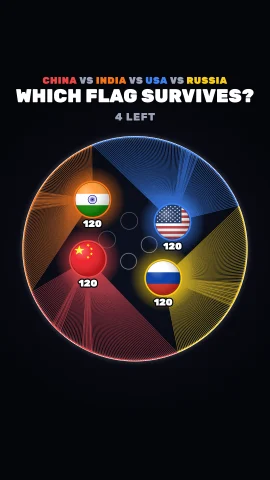
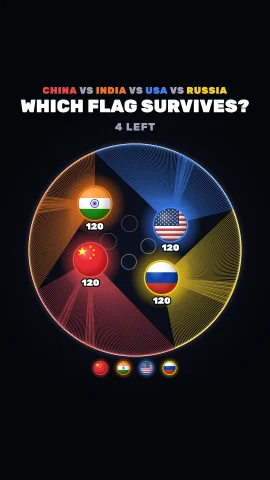
feat: row of flags under the arena clash ring

diff --git a/src/render/battle.ts b/src/render/battle.ts
@@ -22,6 +22,8 @@ import { END_HAND, FOLLOW_IN, FOLLOW_PAD, FOLLOW_RACE_TAP, FOLLOW_RED, FOLLOW_SH
 //               the flag's colour that add up to a lit wedge where they are many; the balls, each
 //               its flag in a ring of its colour, glowing, the strings it holds counted under it,
 //               red and beating once it is down to its last bundle
+//   the row     under the ring, every flag in the battle as its ball is drawn; one that goes out
+//               turns grey and a red cross pops over it
 //
 // A cut string lingers a moment as a ghost, with sparks where the rival is, and a sweep through a
 // bundle or more shows how many it took over the cutter ("-34"); a bounce ripples on the ring where
@@ -40,32 +42,31 @@ const PANEL = '#12162a';
 /** The words that are not the headline: how many are left, the result under the winner. */
 const MUTED = '#9aa3b5';
 /**
- * px the whole picture sits below the simulation's arena (layout.ts ARENA): the ring is drawn
- * centred at y 1035, not 915. Moved in the drawing alone, since a battle's every px is worked out
- * from where the arena is, and a battle recorded before must open again in the studio exactly as
- * it played. Measured on the three apps on a 6.1" phone, where the video fills the screen's
- * height: TikTok's search bar reaches y 247 and Instagram's profile grid shows only y 240–1680
- * (3:4), so the names at 244 were cut and the black under the ring was a third of the frame. At
- * 80 a reel on an iPhone still had the region just under the top buttons and some 250 px of black
- * under the ring; 120 is as low as TikTok's caption (from y 1620) leaves the watermark room.
- */
-const DROP = 120;
-/**
- * How big the arena is drawn, of the simulation's, round its centre: 892 px across, not 970. At
+ * How big the arena is drawn, of the simulation's, round its centre: 844 px across, not 970. At
  * full size the ring came within 55 px of the frame's sides, and Instagram on an iPhone, filling
  * the screen's height, crops about 38 px a side (measured on a screenshot): the ring touched the
- * screen's edges and its right was cut, under the side buttons. The balls, strings and counts
- * are smaller by as much. The drawing alone, as DROP is.
+ * screen's edges and its right was cut, under the side buttons. At 87 % the row of flags and the
+ * line for the follow button fit under it, over TikTok's caption. The balls, strings and counts
+ * are smaller by as much.
  */
-const SCALE = 0.92;
-/** Where the arena's centre is drawn on the frame, and its ring's lowest point (y 1481). */
-const CENTRE_Y = ARENA.y + DROP;
+const SCALE = 0.87;
+/**
+ * Where the arena's centre is drawn on the frame: the ring from y 578 to 1422. The simulation's
+ * arena (layout.ts ARENA, centre y 915) stays where every battle was worked out, and is moved and
+ * scaled in the drawing alone, so a battle recorded before opens again in the studio as it played.
+ */
+const CENTRE_Y = 1000;
 const RING_BOTTOM = CENTRE_Y + ARENA.r * SCALE;
-/** The title block, by the middle of each line: under TikTok's search bar (to y 247) and the profile grid's top (240), over the ring (from 589). */
-const REGION_Y = 196 + DROP;
-const KICKER_Y = 244 + DROP;
-const HEADLINE_Y = 308 + DROP;
-const STATUS_Y = 388 + DROP;
+/**
+ * The title, by the middle of each line. Measured on the three apps on a 6.1" phone, where the
+ * video fills the screen's height: TikTok's search bar reaches y 247 and Instagram's profile grid
+ * shows only y 240–1680 of a reel (3:4), so the region sits just under both, and the status line
+ * (with a flag's OUT, to y 538) over the ring's glow.
+ */
+const REGION_Y = 316;
+const KICKER_Y = 364;
+const HEADLINE_Y = 428;
+const STATUS_Y = 508;
 /**
  * The widest a line of the title may be: 80 px a side. Instagram on an iPhone crops a reel by up to
  * 55 px a side (measured on a screenshot), so a question fitted to 960 ran to the screen's edge.
@@ -98,20 +99,31 @@ const BIG_CUT = BUNDLE;
 /** Positions a ball's trail keeps: about a sixth of a second at 60 fps. */
 const TRAIL = 10;
 /**
- * The line under the ring, in the middle of the frame: the follow button and the slow motion
- * tag, never both at once (battleFollowAt). Between the ring (to y 1441, its glow a little
- * further) and the free plan's mark; the black below that is the platforms' caption, account
- * and music (from about y 1620 on TikTok, 1690 on Shorts, 1740 on Reels, measured), where a
- * button would be read by nobody.
+ * Under the ring, in the middle of the frame, top to bottom: the row of every flag (1472), the
+ * line for the follow button or the slow motion tag, never both at once (battleFollowAt; 1541,
+ * the button's pill 58 px tall), and the free plan's mark (1590, its bottom at 1611). The black
+ * below that is the platforms' caption, account and music (from about y 1620 on TikTok, 1690 on
+ * Shorts, 1740 on Reels, measured), where a button would be read by nobody. The row's top is
+ * 22 px under the ring, past the brightest of its glow; a ball's count against the ring's bottom
+ * reaches some 30 px under it, and is drawn over the row.
  */
-const FOOTER_Y = RING_BOTTOM + 52;
-/** Where the free plan's mark sits: under that line, above the platforms' captions. */
+const ROSTER_Y = RING_BOTTOM + 50;
+const FOOTER_Y = ROSTER_Y + 69;
 const WATERMARK_Y = FOOTER_Y + 49;
+/**
+ * A flag in the row: 56 px across with its ring, so twelve fit the title's width (TITLE_W) with
+ * 22 px between them; fewer are set ROSTER_GAP apart, close enough to read as one row.
+ */
+const ROSTER_R = 28;
+const ROSTER_GAP = 36;
+/** Seconds a flag out takes to turn grey in the row, and its cross to pop in over it. */
+const ROSTER_GREY = 0.2;
+const ROSTER_CROSS = 0.3;
 /** The follow button on the stage: framed in white, and white with dark type once followed. */
 const FOLLOW_STYLE: FollowStyle = { ink: WHITE, card: WHITE, text: STAGE, shadow: false };
 /** The winner card's middle, over the ring's, and its button under it, as the race's is. */
-const CARD_Y = 1000 + DROP;
-const FOLLOW_Y = 1330 + DROP;
+const CARD_Y = 1120;
+const FOLLOW_Y = 1450;
 
 /** What the page tells this renderer about a frame of a battle. */
 export interface BattleOverlay extends Overlay {
@@ -164,6 +176,8 @@ export class BattleRenderer {
   private tallies: Tally[] = [];
   /** The flag that last went out and the seconds since: its OUT in place of the count. */
   private out: { flag: number; age: number } | null = null;
+  /** Seconds since each flag went out, for its cross's pop in the row; a flag out with none (a battle opened past it) shows its cross whole. */
+  private gone = new Map<number, number>();
   /** Each ball's last positions, flattened x, y, oldest first: its trail. */
   private trails = new Map<number, number[]>();
   /** Where each ball is drawn this frame: its place, and the part of a step the frame is ahead of it. */
@@ -193,6 +207,7 @@ export class BattleRenderer {
     this.rings = [];
     this.tallies = [];
     this.out = null;
+    this.gone = new Map();
     this.trails = new Map();
     this.slow = 0;
     if (cfg.look.follow) this.follow.load();
@@ -236,6 +251,7 @@ export class BattleRenderer {
         this.effects.kick(8);
         this.rings.push({ x: e.x, y: e.y, age: 0, color: colors[e.flag], size: 2.6 * f.r });
         this.out = { flag: e.flag, age: 0 };
+        this.gone.set(e.flag, 0);
       }
     }
   }
@@ -262,7 +278,9 @@ export class BattleRenderer {
     ctx.save();
     ctx.translate(sx, sy);
     this.drawTitle(world, cfg, colors);
-    // The arena and all that happens in it, in the simulation's own px: SCALE of its size round its centre, DROP lower on the frame.
+    // Under the arena, so a count, a ripple or a burst at the ring's bottom is over it; gone as the winner card comes up, where its button goes.
+    this.drawRoster(world, colors, 1 - overlay.winner);
+    // The arena and all that happens in it, in the simulation's own px: SCALE of its size round its centre, drawn at CENTRE_Y.
     ctx.save();
     ctx.translate(ARENA.x, CENTRE_Y);
     ctx.scale(SCALE, SCALE);
@@ -317,6 +335,7 @@ export class BattleRenderer {
     }
     this.tallies = this.tallies.filter((t) => t.idle < TALLY_JOIN + TALLY_FADE);
     if (this.out) this.out.age += dt;
+    for (const [flag, since] of this.gone) this.gone.set(flag, since + dt);
     this.slow = slow ? this.slow + dt : 0;
   }
 
@@ -410,8 +429,8 @@ export class BattleRenderer {
 
   /**
    * How many flags are left, centred; for OUT_SHOW after a flag goes, its flag and "CROATIA OUT"
-   * in its colour instead, popping in. Who went is said by the names above, struck through: small
-   * flags of those gone beside "2 LEFT" read as the two that are left.
+   * in its colour instead, popping in. Who went is said by the names above, struck through, and by
+   * the row under the ring: small flags of those gone beside "2 LEFT" read as the two that are left.
    */
   private drawStatus(world: BattleWorld, colors: string[]): void {
     const ctx = this.ctx;
@@ -443,6 +462,75 @@ export class BattleRenderer {
     // Centred on the letters, not on the trailing letter spacing.
     ctx.fillText(`${world.alive} LEFT`, W / 2 + 1.5, STATUS_Y + 2);
     ctx.letterSpacing = '0px';
+  }
+
+  // ── The row ──────────────────────────────────────────────────────────────
+
+  /**
+   * Every flag in the battle in a row under the ring, in the order given, each as its ball is
+   * drawn, so the row reads as the balls: from five flags the title says only how many, and this
+   * is where a viewer sees who is in. A flag that goes out turns grey and a red cross pops over
+   * it, and it keeps its place: grey and crossed is not read as one still in, as small flags beside
+   * "2 LEFT" were. No numbers: each ball's count is over it. `alpha` fades it for the winner card.
+   */
+  private drawRoster(world: BattleWorld, colors: string[], alpha: number): void {
+    if (alpha <= 0) return;
+    const ctx = this.ctx;
+    const n = world.flags.length;
+    const step = 2 * ROSTER_R + Math.min(ROSTER_GAP, (TITLE_W - 2 * ROSTER_R * n) / (n - 1));
+    const ring = 4;
+    const y = ROSTER_Y;
+    ctx.save();
+    ctx.globalAlpha = alpha;
+    for (const f of world.flags) {
+      const x = W / 2 + (f.id - (n - 1) / 2) * step;
+      const color = colors[f.id];
+      if (f.alive) {
+        const glow = ctx.createRadialGradient(x, y, ROSTER_R * 0.9, x, y, ROSTER_R * 1.5);
+        glow.addColorStop(0, rgba(color, 0.45));
+        glow.addColorStop(1, rgba(color, 0));
+        ctx.fillStyle = glow;
+        ctx.beginPath();
+        ctx.arc(x, y, ROSTER_R * 1.5, 0, Math.PI * 2);
+        ctx.fill();
+      }
+      this.flagDisc(f.code, x, y, ROSTER_R - ring, color, ring);
+      if (f.alive) continue;
+      const since = this.gone.get(f.id) ?? Infinity;
+      // Grey: the disc's colour taken out (a blend every browser's canvas has, unlike `filter`), and
+      // dimmed a little toward the stage. At half a dark grey flag under the cross was no flag at all.
+      const grey = Math.min(1, since / ROSTER_GREY);
+      const box = ROSTER_R + 1;
+      ctx.save();
+      ctx.beginPath();
+      ctx.arc(x, y, box, 0, Math.PI * 2);
+      ctx.clip();
+      ctx.globalCompositeOperation = 'saturation';
+      ctx.globalAlpha = alpha * grey;
+      ctx.fillStyle = '#808080';
+      ctx.fillRect(x - box, y - box, 2 * box, 2 * box);
+      ctx.globalCompositeOperation = 'source-over';
+      ctx.globalAlpha = alpha * grey * 0.15;
+      ctx.fillStyle = STAGE;
+      ctx.fillRect(x - box, y - box, 2 * box, 2 * box);
+      ctx.restore();
+      // The cross corner to corner of the flag, red in a dark outline so it reads over any flag, popping in.
+      const arm = ROSTER_R * 0.62 * easeOutBack(Math.min(1, since / ROSTER_CROSS));
+      if (arm <= 0) continue;
+      ctx.beginPath();
+      ctx.moveTo(x - arm, y - arm);
+      ctx.lineTo(x + arm, y + arm);
+      ctx.moveTo(x + arm, y - arm);
+      ctx.lineTo(x - arm, y + arm);
+      ctx.lineCap = 'round';
+      ctx.lineWidth = 10;
+      ctx.strokeStyle = STAGE;
+      ctx.stroke();
+      ctx.lineWidth = 6;
+      ctx.strokeStyle = FOLLOW_RED;
+      ctx.stroke();
+    }
+    ctx.restore();
   }
 
   // ── The arena ────────────────────────────────────────────────────────────
@@ -697,7 +785,7 @@ export class BattleRenderer {
   private drawFollow(age: number, sx: number, sy: number): void {
     if (age < 0 || age > FOLLOW_SHOW) return;
     const ctx = this.ctx;
-    // 34 px type: a pill 58 px tall, which the ring's glow above and the free plan's mark below leave room for.
+    // 34 px type: a pill 58 px tall, which the row of flags above and the free plan's mark below leave room for.
     const size = 34;
     const pop = easeOutBack(Math.min(1, age / 0.25));
     ctx.save();

diff --git a/src/layout.ts b/src/layout.ts
@@ -67,10 +67,10 @@ export const VS_Y = cardBottom(TOP) + BETWEEN / 2;
 //
 // One round arena filling the frame's width but 55 px a side, the flags bouncing inside it. This
 // is the simulation's arena, where every battle is worked out and replayed: the picture is drawn
-// at 92 % of its size round its centre and 120 px lower (SCALE and DROP in src/render/battle.ts),
-// the ring from y 589 to 1481 and 94 px from the frame's sides, with the battle's title over it
-// and, under it in the middle, a line for the follow button or the slow motion tag and the free
-// plan's watermark. The side buttons' column (x 940 on, from y 902) crosses the ring's right edge:
+// at 87 % of its size round its centre and 85 px lower (SCALE and CENTRE_Y in src/render/battle.ts),
+// the ring from y 578 to 1422 and 118 px from the frame's sides, with the battle's title over it
+// and, under it in the middle, the row of every flag, a line for the follow button or the slow
+// motion tag, and the free plan's watermark. The side buttons' column (x 940 on, from y 902) crosses the ring's right edge:
 // a circle this big cannot keep out of it, and the balls are rarely there.
 
 /** The arena in the simulation: centre and radius of the ring's inner edge, where balls bounce and strings are tied. Moving it changes every battle. */

diff --git a/docs/arena-clash.md b/docs/arena-clash.md
@@ -221,8 +221,8 @@ preview marks, the base `Overlay`) and [follow.ts](../src/render/follow.ts) (the
     `look.question`, which the narrator's opening ends on, in capitals without its full stop;
   - how many are left at y 508 ("2 LEFT"), centred and alone. For 1.7 s after a flag goes it is
     that flag and "CROATIA OUT" in its colour instead, popping in. Who went is said in the names
-    above: a flag out stays where it was, dimmed and struck through. Small flags of those gone
-    beside "2 LEFT" read as the two that are left, so there are none.
+    above, where a flag out stays dimmed and struck through, and in the row under the ring. Small
+    flags of those gone beside "2 LEFT" read as the two that are left, so there are none.
 - **The arena**: a thin white ring with a soft glow. Strings are 2.2 px at 60 % of the flag's
   colour, added to what is under them: one alone is a fine line on a phone, a hundred meeting at
   a ball a wedge of light, and where two fans cross both show. A dot of the colour where each is
@@ -231,11 +231,21 @@ preview marks, the base `Overlay`) and [follow.ts](../src/render/follow.ts) (the
   count drawn over every ball, so one ball never hides another's. Down to its last bundle (10 or
   fewer, `inDanger`) a count is red and kicks up a quarter on every `HEARTBEAT` (0.75 s of the
   battle's clock), the beat the heart in the sound plays on.
-- **The arena is drawn at 92 % of its size** round its centre (`SCALE`): 892 px across, the ring
-  from y 589 to 1481, at least 94 px from the frame's sides. Full size, it came within 55 px of
-  them, and Instagram on an iPhone, filling the screen's height, crops about 38 px a side: the ring
-  touched the screen's edges and its right was cut under the side buttons. Balls, strings and
-  counts are smaller by as much; the drawing alone, as `DROP` is.
+- **The arena is drawn at 87 % of its size** round its centre (`SCALE`, centred at `CENTRE_Y`,
+  y 1000): 844 px across, the ring from y 578 to 1422, 118 px from the frame's sides. Full size, it
+  came within 55 px of them, and Instagram on an iPhone, filling the screen's height, crops about
+  38 px a side: the ring touched the screen's edges and its right was cut under the side buttons.
+  At 87 % the row of flags and the line for the follow button fit under it. Balls, strings and
+  counts are smaller by as much; the drawing alone.
+- **The row of flags** under the ring (`drawRoster`, centred at y 1472): every flag in the battle
+  in the order given, each as its ball is drawn (its flag in a ring of its colour, glowing), 56 px
+  across, 36 px apart or as close as twelve need to fit 920 px (22). From five flags the title says
+  only how many, so the row is where a viewer sees who is in. A flag that goes out turns grey and
+  dimmed a little (a `saturation` blend, which every browser's canvas has, unlike `filter`) and a
+  red cross pops over it, corner to corner of the flag; it keeps its place, so grey and crossed is
+  never read as one still in. No numbers: each ball's count is over it. Drawn before the arena, so
+  a count, a ripple or a burst at the ring's bottom is over it; it fades as the winner card comes
+  up, where the card's follow button goes.
 - **Effects**: cut strings linger 0.22 s as ghosts, white then their colour, with sparks off the
   rival; every bounce ripples on the ring where it ties, two balls meeting ripple white; a flag
   out bursts into pieces with a shake.
@@ -245,7 +255,7 @@ preview marks, the base `Overlay`) and [follow.ts](../src/render/follow.ts) (the
   0.2 s of each other are one sweep) and then rising and fading; only from a bundle up, or the
   arena would be full of nicks of three. Against the top of the ring, where it would sit on
   "3 LEFT", it goes under the ball's count.
-- **Under the ring, in the middle of the frame** (`FOOTER_Y`, 1533, 52 px under the ring): a red dot and SLOW MOTION
+- **Under the row, in the middle of the frame** (`FOOTER_Y`, 1541): a red dot and SLOW MOTION
   while an out plays slowed, and once in the battle the **follow button** (`look.follow`), the
   race's own (follow.ts): it pops in red, a hand comes up and taps it, it turns to FOLLOWING and
   fades, 2.4 s in all. `battleFollowAt` picks the moment: near 45 % of the battle, clear of every
@@ -254,19 +264,19 @@ preview marks, the base `Overlay`) and [follow.ts](../src/render/follow.ts) (the
   screen's height: TikTok's search bar reaches y 247, Instagram's and YouTube's top buttons 210;
   the captions start at about y 1620 on TikTok (its pinned comment, while it shows, at 1460),
   1690 on Shorts and 1740 on Reels; and Instagram's profile grid shows only y 240–1680 of a reel
-  (3:4). So the title takes y 302 to 535, the ring 589 to 1481, the line under it 1533 and the
-  watermark 1582 (its bottom at 1603, under TikTok's caption at 1620), all inside the grid's
-  crop, and the black under the ring is the captions'. The
-  picture is drawn `DROP` (120 px) lower than the simulation's arena (`ARENA`, centre y 915),
-  which stays where every battle so far was worked out, so one recorded before still opens in
-  the studio as it played. ⚠ The black below the line looks free in the studio and is not: it
+  (3:4). So the title takes y 302 to 538, the ring 578 to 1422, the row 1444 to 1500, the line
+  under it 1541 (the follow button's pill 1512 to 1570) and the watermark 1590 (its bottom at 1611,
+  over TikTok's caption at 1620), all inside the grid's crop, and the black under that is the
+  captions'. The arena is drawn 85 px lower and at 87 % of the simulation's (`ARENA`, centre
+  y 915), which stays where every battle so far was worked out, so one recorded before still
+  opens in the studio as it played. ⚠ The black below the line looks free in the studio and is not: it
   is where the platforms put the caption, the account and the music (More → Video → *Show where
   TikTok, Reels and Shorts put their buttons* shows it). A button there is read by nobody.
 - **The winner card**: a dark card framed in the winner's colour, its flag big over it, WINNER,
   its name, "Last flag standing · 26.0 s", and the last line; confetti; with `look.follow` the
   follow button under it in the winner's colour, tapped 1.5 s in and left as FOLLOWING, and the
   card held 2.5 s at least (pacing.ts), as the race's.
-- **The watermark** (a plan with `watermark`) sits under the arena, centred at y 1582, above the
+- **The watermark** (a plan with `watermark`) sits under the arena, centred at y 1590, above the
   platforms' captions. The ring's right edge crosses the platforms' side
   buttons' column (x 940 on, from y 902): a circle this big cannot keep out of it. The preview
   marks across the frame are in the preview alone.
@@ -350,3 +360,4 @@ the thumbnail; Open in studio replays it exactly. The superadmin's text for post
 - 2026-11-12 - no winner line says the time ("wins it in 21.6 seconds" is gone); the winner line is said at the win, over the last slow motion, so the winner card holds only its end (2.5 s with the follow button, from 3–5 s) and the battle has those seconds.
 - 2026-11-12 - four battles in five are comebacks (`isBattleComeback`); "+10" at every bounce and "-34" over a ball sweeping a fan; a count down to its last bundle red and beating, with a heartbeat; the region over the names when every flag is from one (`sharedRegion`); the arena drawn at 92 % (`SCALE`), off the frame's sides, the line under it and the watermark moved up with it.
 - 2026-11-14 - the picture 40 px lower (`DROP` 120): a reel on an iPhone had the region just under the top buttons and some 250 px of black under the ring; the title's lines fitted to 920 px, not 960, where the question ran to the screen's edge.
+- 2026-11-23 - a row of every flag under the ring, one out grey with a red cross; the arena drawn at 87 % (from 92 %) and centred at y 1000, the line under it and the watermark 8 px lower, to fit the row; the site's Arena Clash card frame made again.

diff --git a/docs/website.md b/docs/website.md
@@ -378,7 +378,7 @@ All drawn by the studio's renderer, so they are what a video looks like, by
 | --- | --- | --- |
 | [public/hero/first-frame-4.webp](../public/hero/first-frame-4.webp) | the hero's first frame, its opening title and all: Fibonacci vs Slow Factorial balanced to 30 s, night; also the first paint of the steps' phone and of step 3, whose defaults are that race. The `-4` is a new name for a frame that changed in a way that shows (the title, its lighter wash, then its panels): a browser keeps `/hero` a week, and the old name would show the old still under the new first frame | 540×960, ~34 KB |
 | [public/looks/](../public/looks/) `paper.webp`, `cards.webp`, `night.webp` | the same race 55 % of the way, the top box as the studio's look picker crops it | 480×416, 15–17 KB each |
-| [public/games/](../public/games/) `ball-race.webp`, `arena-clash.webp`, and each at `-270.webp` | each game's frame for its card (§4): the race in the night look 55 % of the way, as the looks have it; an Arena Clash of China, India, the United States and Russia (the four biggest countries, the owner's pick) balanced to 30 s, an eighth of the way and then on to a moment with no "+10" or "-34" in the air (`QUIET`: on a still card they read as stuck to the balls), with its title (`SHOWCASE` in stills.ts). Each halved from the full frame step by step (`halved`), and the card's `srcset` picks the size nearest the one it shows: scaled down in one step, by the canvas or by the browser to a 122 px card, an Arena Clash's hundreds of strings beat into waves (moiré), averaged step by step they make the wedge they are. Made again when either game's look changes | 540×960 (30 and 64 KB) and 270×480 (13 and 17 KB) |
+| [public/games/](../public/games/) `ball-race.webp`, `arena-clash.webp`, and each at `-270.webp` | each game's frame for its card (§4): the race in the night look 55 % of the way, as the looks have it; an Arena Clash of China, India, the United States and Russia (the four biggest countries, the owner's pick) balanced to 30 s, an eighth of the way and then on to a moment with no "+10" or "-34" in the air (`QUIET`: on a still card they read as stuck to the balls), with its title (`SHOWCASE` in stills.ts). Each halved from the full frame step by step (`halved`), and the card's `srcset` picks the size nearest the one it shows: scaled down in one step, by the canvas or by the browser to a 122 px card, an Arena Clash's hundreds of strings beat into waves (moiré), averaged step by step they make the wedge they are. Made again when either game's look changes | 540×960 (30 and 60 KB) and 270×480 (13 and 17 KB) |
 | [public/games/](../public/games/) `ball-race.svg`, `arena-clash.svg` | not from the stills page: each game's icon, drawn by hand on a 48-unit grid as a tile in one of the site's two colours, so it reads on the dark thumbnails and at 22 px (the race's ball falling on its layers on violet; the arena's white ring with a white and a dark ball and their fans on sky blue: on the stage's ink it was lost on a dark thumbnail). Written into the pages (§4) and shown as an `<img>` on the Videos page | 1–2 KB |
 | [public/og.png](../public/og.png) | the Open Graph and Twitter image, as the hero: the ink, the mark and the name, the headline, one line on what it makes, and at the bottom the address (`SITE_HOST`, narrowed if it would reach the phones), then a violet rule and "Free to start"; two phones (night, paper) in the balls' light. Made again when the address changes | 1200×630, ~300 KB |
 | [public/favicon-32.png](../public/favicon-32.png), [public/favicon.png](../public/favicon.png), [public/apple-touch-icon.png](../public/apple-touch-icon.png) | the icons every head links (the app's too), one drawing at three sizes: [public/favicon.svg](../public/favicon.svg) drawn from the vector at each size, never scaled down from a bigger PNG (that is what makes a favicon soft in the tab strip). 32 px for the tab, with the tile's rounded corners; 512 px for Google's results and Search Console and 180 px for the iOS home screen, filled to the edge with the ink, since those crop or round the square themselves and iOS turns a transparent corner black. The SVG is no longer linked: the PNGs are what every browser and Google read | 32, 512 and 180 px square |
@@ -554,3 +554,4 @@ used for.
 - 2026-11-12 - the games' frames at 540 and 270 px, halved step by step, picked by the cards' `srcset`: the Arena Clash frame's strings made waves when a 540 px image was scaled to a 122 px card.
 - 2026-11-12 - the Arena Clash card's frame made again: the arena drawn at 92 %, and a moment with no number in the air (`QUIET` in stills.ts).
 - 2026-11-13 - the home page for both games and each thing said once: the hero plays a race and an Arena Clash side by side (arena.ts) under "Game videos, ready to post.", one dice for both; the browser note under the stage gone (the hero's Why opens the first question); the games in words, three rules each, no picture; the stage's groups are Ball Race, Arena Clash (flags, a comeback, slow motion and a heartbeat) and both games (narrator, follow button, library), without the race board, the loop, the buttons' zones and the specs, which step 3 says; eight questions, one on choosing an Arena Clash's winner. /games remade: a stage, then a section a game with it playing, its rules, numbers and choices, the arena's flags running past, and six tiles for both games. Fifteen sequences and 79 pairings, as the dice has them.
+- 2026-11-23 - the Arena Clash card's frame made again: the row of flags under the ring, the arena at 87 %.

diff --git a/src/render/CLAUDE.md b/src/render/CLAUDE.md
@@ -13,7 +13,7 @@ The video's look, drawn on one 1080×1920 canvas every frame. Deep-dive:
 | floating damage numbers, debris, confetti, shake | [effects.ts](./effects.ts); how big a hit lands (flash, kick, number size) in renderer.ts `handle`, `floatDamage` |
 | the opening title over the first frame, the meters and LEAD CHANGE, the last layer's glow and LAST LAYER!, a layer's number counting down | [renderer.ts](./renderer.ts) `drawOpening`, `drawMeters`, `drawLeadChange`, `finalGlow`, `drawTitleRow`, `count` |
 | the race's follow button: where (right of the VS, where LEAD CHANGE shows, and under the winner card) and when | [renderer.ts](./renderer.ts) `drawRaceFollow`, `drawEndFollow`, `followAt`; the button itself is [follow.ts](./follow.ts), the hand's image in [public/hand/](../../public/hand/) |
-| Arena Clash, a look of its own: the black stage, the title with its region, N LEFT and OUT, the arena at 92 % (`SCALE`), the strings, the balls and their counts (red and beating in danger), "+10" and "-34", ghosts and sparks, the slow motion tag, its follow button, winner card and watermark | [battle.ts](./battle.ts) `BattleRenderer`, `battleFollowAt` ([arena-clash](../../docs/arena-clash.md#4-the-look)) |
+| Arena Clash, a look of its own: the black stage, the title with its region, N LEFT and OUT, the arena at 87 % (`SCALE`), the strings, the balls and their counts (red and beating in danger), "+10" and "-34", ghosts and sparks, the row of every flag under the ring (`drawRoster`), the slow motion tag, its follow button, winner card and watermark | [battle.ts](./battle.ts) `BattleRenderer`, `battleFollowAt` ([arena-clash](../../docs/arena-clash.md#4-the-look)) |
 | what both games draw with: the type, colour sums, text that fits, easings, the mark, the preview marks, the base `Overlay` | [draw.ts](./draw.ts) |
 | the follow button and the hand that taps it, for both games | [follow.ts](./follow.ts) `FollowButton`; each renderer says where and when |
 
